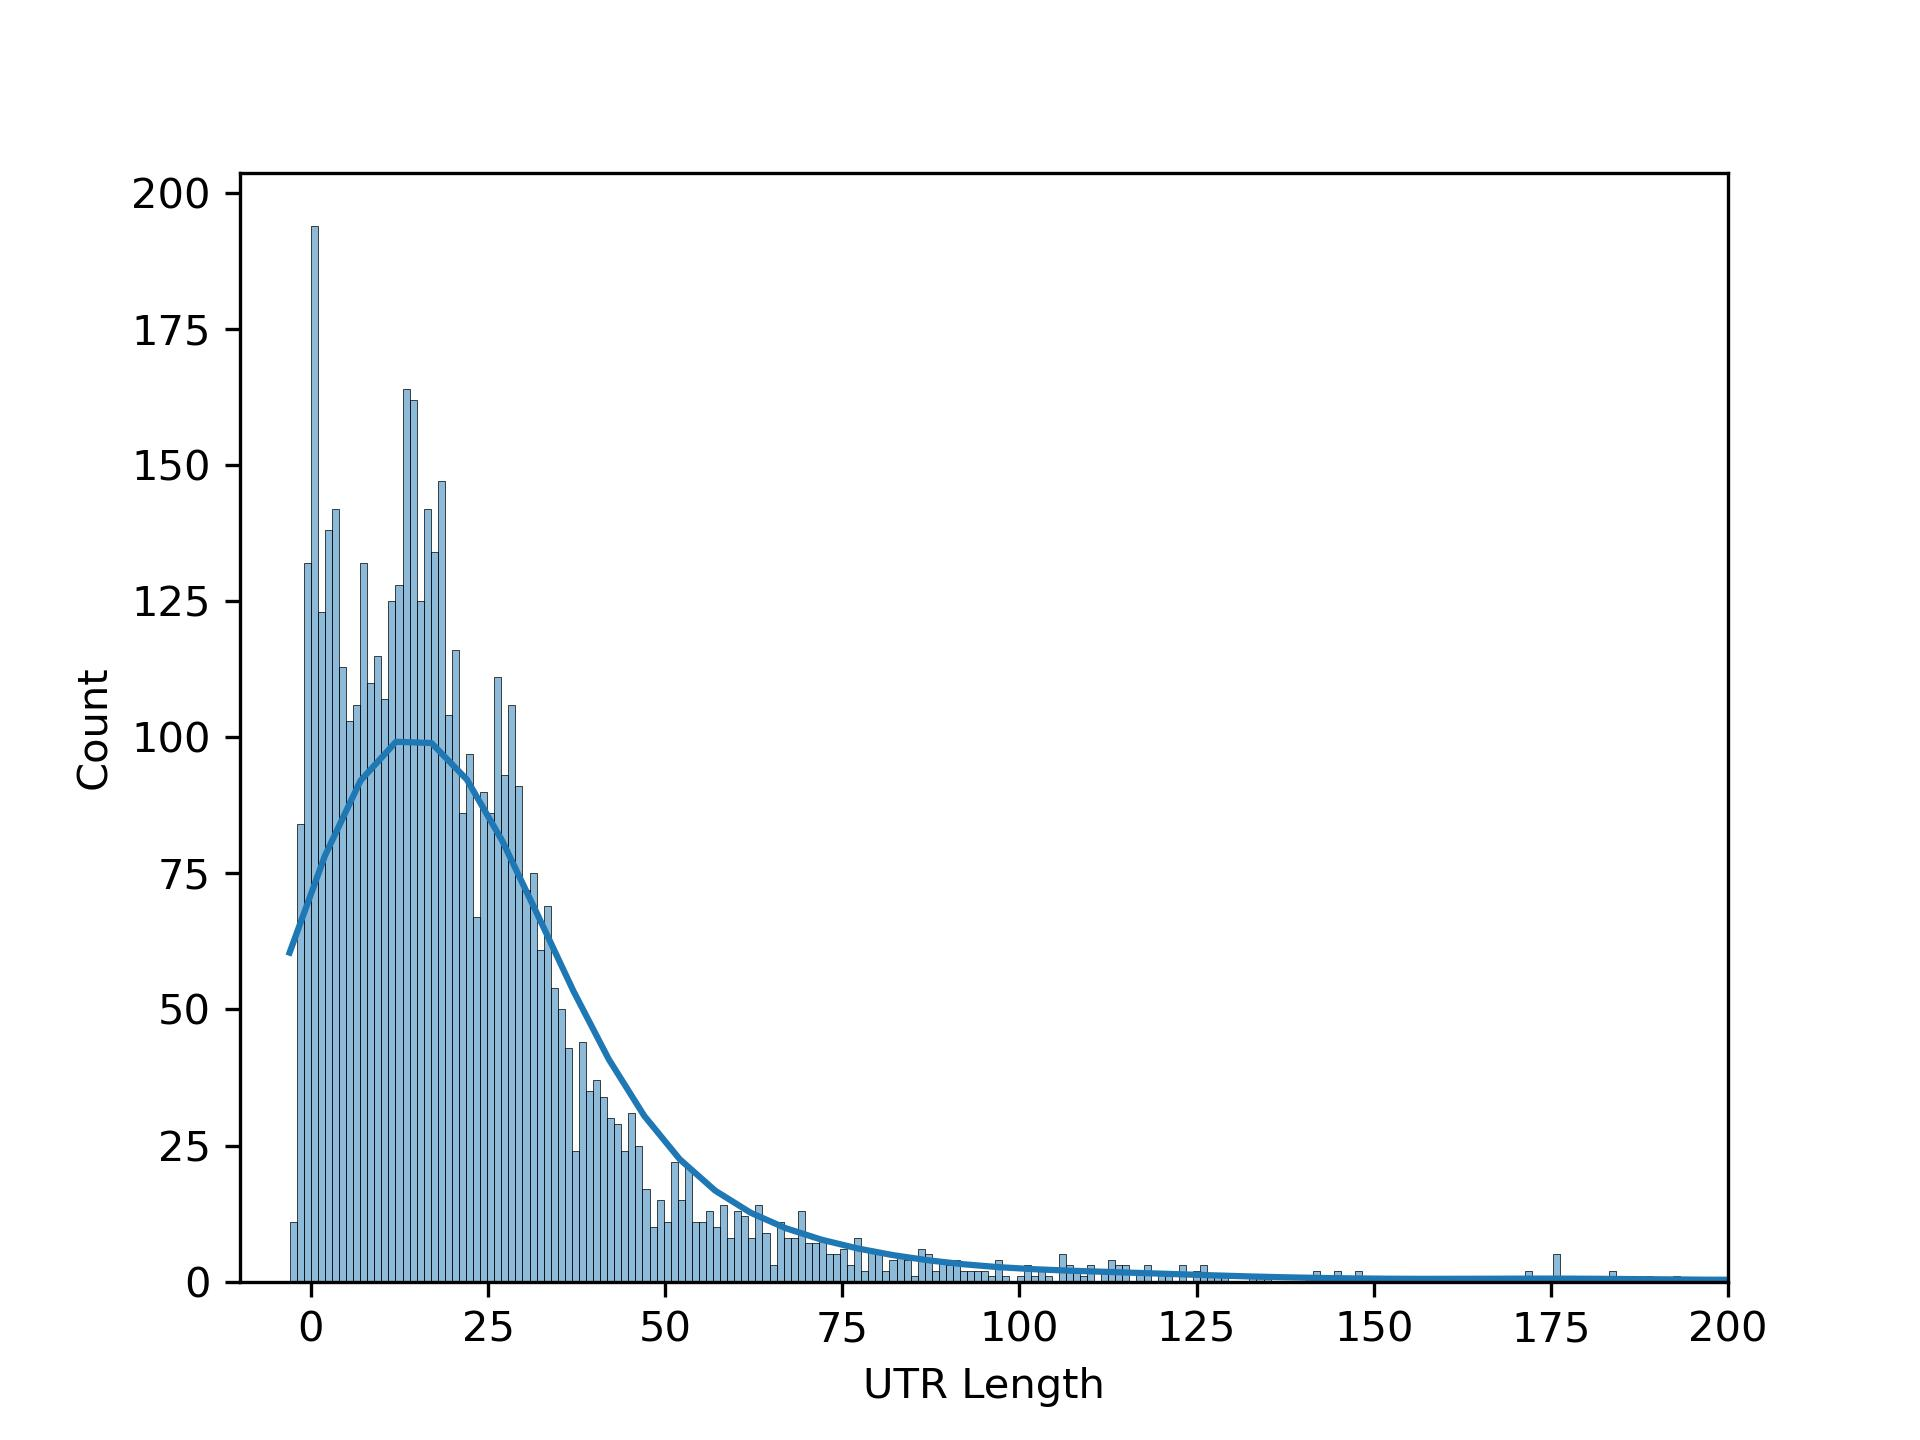
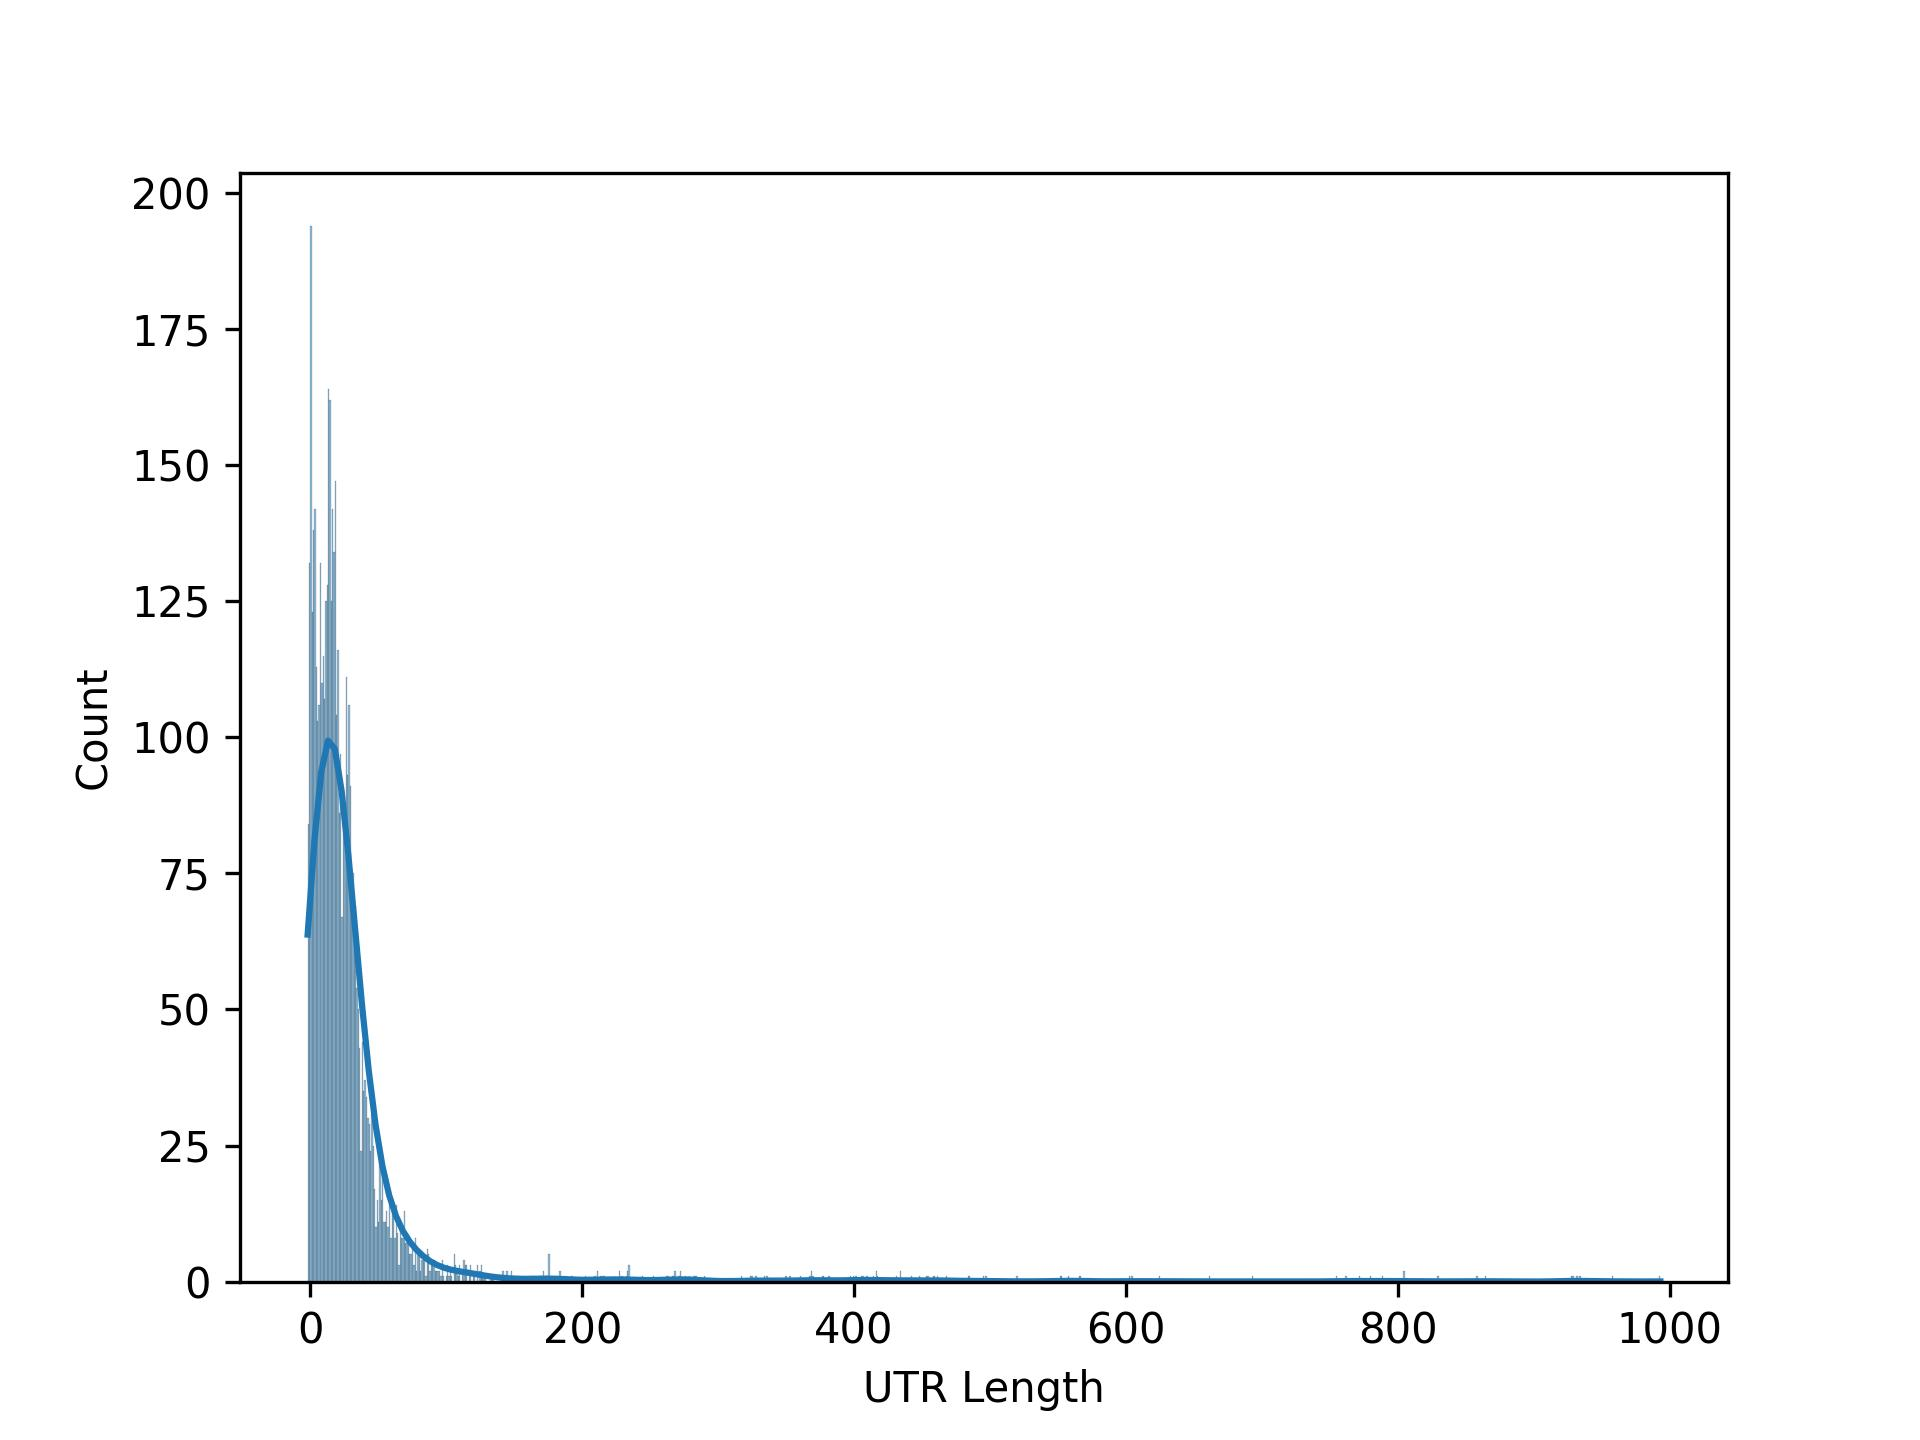
after UTR length finder revision

Changed region(s): [[0.125, 0.1562, 0.75, 1.0], [0.7812, 0.875, 0.9375, 0.9375]]

diff --git a/UTR_length_finder.py b/UTR_length_finder.py
@@ -1,10 +1,8 @@
 # $ python UTR_length_finder.py -g1 ST2_orfs.gff3 -g2 march4_has_stop_polyA.gff3 -f ST2_sorted_masked.fasta > UTR_length_info_new.txt
 
-# $ grep -c "there must be" UTR_length_info_new.txt
-# 52 
+# $ wc -l stop_polyA_align.gff3
+# 410 stop_polyA_align.gff3
 
-
-# $ python UTR_length_finder.py -g1 ST2_orfs.gff3 -g2 march4_has_stop_polyA.gff3 -f ST2_sorted_masked.fasta > UTR_length_info_new.txt
 #!/usr/bin/env python
 import sys
 import argparse
@@ -23,7 +21,7 @@ from Bio.SeqRecord import SeqRecord
 
 
 # Argument Parser
-parser = argparse.ArgumentParser(description="Categorize polyA sites into genomic contexts.")
+parser = argparse.ArgumentParser(description="Find UTR length of genes containing stop codon.")
 parser.add_argument("-g1", "--genes", required=True, help="Input GFF3 file with gene information.")
 parser.add_argument("-g2", "--polyA", required=True, help="Input GFF3 file with polyA sites which are associated with genes having stop codons.")
 parser.add_argument("-f", "--fasta", required=True, help="Input FASTA file containing genomic sequences.")
@@ -34,8 +32,8 @@ class Interval:
     """Class representing an interval between two genes."""
     def __init__(self, contig: str, gene_left: Optional[Feature], gene_right: Optional[Feature]):
         self.contig = contig
-        self.start = gene_left.end if gene_left else 0
-        self.end = gene_right.start if gene_right else sys.maxsize
+        self.start = gene_left.end+1 if gene_left else 0
+        self.end = gene_right.start-1 if gene_right else sys.maxsize
         self.gene_left = gene_left
         self.gene_right = gene_right
         self.strand_left = gene_left.strand if gene_left else None
@@ -49,13 +47,18 @@ def main() -> None:
     sequences = SeqIO.index(args.fasta, 'fasta')
 
     # Generate intervals
-    gene_intervals = process_gene_intervals(db_genes)
+    # Explicitly declare the types of the returned variables
+    gene_intervals: List[Interval] = process_gene_intervals(db_genes)
+    UTR_lengths_list: List[int] = find_UTR_lengths(gene_intervals, db_polyA, sequences)
 
-    UTR_lengths_list = find_UTR_lengths(gene_intervals, db_polyA, sequences)
 
-    df = pd.DataFrame(UTR_lengths_list, columns=["UTR Length"])
-    plt.xlim(-10, 200)  
-    sns.histplot(df, x="UTR Length", bins=1000, kde=True).get_figure().savefig("UTR_length_distribution.jpg", dpi=300)
+    UTR_lengths_series = pd.Series(UTR_lengths_list, name="UTR Length")
+    sns.histplot(
+        UTR_lengths_series,
+        bins=1000,
+        kde=True
+    ).get_figure().savefig("UTR_length_distribution.jpg", dpi=300)
+
       
 
 def process_gene_intervals(db: FeatureDB) -> List[Interval]:
@@ -74,6 +77,7 @@ def process_gene_intervals(db: FeatureDB) -> List[Interval]:
 
     # Process each contig individually
     for contig, genes in genes_by_contig.items():
+        
         # Sort genes by their start positions and in case of starting at the same point prioritise the ones with further ends
         genes.sort(key=lambda g: (g.start, -g.end))
 
@@ -84,6 +88,7 @@ def process_gene_intervals(db: FeatureDB) -> List[Interval]:
 
         # Iterate over the remaining genes
         for i in range(1, len(genes)):
+            
             # If next gene is overshadowed by correct_start (start < correct_start.end), skip it
             if genes[i].start < correct_start.end:
                 continue
@@ -98,17 +103,6 @@ def process_gene_intervals(db: FeatureDB) -> List[Interval]:
 
     return intervals
 
-
-def has_stop_codon(gene: Feature, sequences: Dict[str, SeqRecord]) -> bool:
-    """Check if a gene has a stop codon based on its strand."""
-    sequence = str(sequences[gene.seqid].seq[gene.start - 1: gene.end]).upper()
-    if gene.strand == "+":
-        return sequence[-3:] in ["TAA", "TGA", "TAG"]
-    if gene.strand == "-":
-        return sequence[:3] in ["TTA", "TCA", "CTA"]
-    return False
-
-
 def find_UTR_lengths(
     gene_intervals: List[Interval],
     db_polyA: FeatureDB,
@@ -117,32 +111,36 @@ def find_UTR_lengths(
     """
     Assign polyA sites to genes, categorize them, and return UTR lengths.
     Additionally, if the UTR length is in [-3, -2, -1, 0], write those polyA lines
-    to 'stop_polyA_align.gff3'.
+    to 'stop_polyA_align.gff3'. Also print a warning if the same gene is encountered
+    twice with a difference in UTR lengths > 50 bp.
     """
     UTR_lengths = []
     align_polyAs = []  # will collect lines for polyAs with UTR length in [-3, -2, -1, 0]
 
-    geneIdToCheck = None
-    UTRlengthToCheck = None
+    # These variables track the last gene and last UTR length we encountered
+    last_gene = None
+    last_utr_length = None
+    last_polyA_id = None
 
-    # Open output file in write mode here (or do so after the loop if you prefer)
     with open("stop_polyA_align.gff3", "w") as align_file:
-        for polyA in db_polyA.features_of_type('polyA'):
+        for polyA in db_polyA.features_of_type("polyA"):
             for interval in gene_intervals:
                 if polyA.seqid != interval.contig:
                     continue
 
-                # Check if polyA falls within an interval and the strands match
+                # Check if polyA falls within an interval (±3 bp) and if strand matches
                 if interval.start - 3 <= polyA.start <= interval.end + 3:
                     if polyA.strand == "-" and interval.strand_right == "-":
                         current_gene = interval.gene_right.id
-                        current_UTR_length = interval.end - polyA.start
-
+                        current_UTR_length = interval.end - polyA.start + 1
                     elif polyA.strand == "+" and interval.strand_left == "+":
                         current_gene = interval.gene_left.id
-                        current_UTR_length = polyA.start - interval.start
+                        current_UTR_length = polyA.start - interval.start + 1
+                    else:
+                        # If the strand doesn't match, skip
+                        continue
 
-                    # Record a normal UTR length if it's < 1000
+                    # Save the UTR length if it's < 1000
                     if current_UTR_length < 1000:
                         UTR_lengths.append(current_UTR_length)
                     else:
@@ -150,22 +148,24 @@ def find_UTR_lengths(
 
                     print(current_gene, polyA.id, current_UTR_length)
 
-                    # If the length is in [-3, -2, -1, 0], store the polyA line
+                    # If the length is in [-3, -2, -1, 0], record the line in stop_polyA_align.gff3 
+                    #(want to check what ratio of the has stop codon genes also have a polyA which is aligining on the stop codon)
                     if current_UTR_length in [-3, -2, -1, 0]:
-                        # Convert polyA feature object to string (like original GFF line)
-                        polyA_line = str(polyA)
-                        align_polyAs.append(polyA_line)
+                        align_polyAs.append(str(polyA))
 
-                    # Only do the comparison if both geneIdToCheck and UTRlengthToCheck are defined
-                    if geneIdToCheck is not None and UTRlengthToCheck is not None:
-                        # Check if we have the same gene, and if the difference is bigger than 50
-                        if geneIdToCheck == current_gene and abs(UTRlengthToCheck - current_UTR_length) > 50:
-                            print(f"WARNING: there might be a gene missing between {polyAtoCheck} and {polyA.id}")
+                    # Check if we are hitting the same gene again
+                    if last_gene == current_gene:
+                        # If so, see if the difference is > 50
+                        if abs(last_utr_length - current_UTR_length) > 50:
+                            print(f"WARNING: For gene {current_gene}, polyA {last_polyA_id} and {polyA.id} differ in UTR length by more than 50 bp. ")
 
-                    # Update these variables for the next comparison
-                    geneIdToCheck = current_gene
-                    UTRlengthToCheck = current_UTR_length
-                    polyAtoCheck = polyA.id
+                    # Update the tracking variables for the next iteration
+                    last_gene = current_gene
+                    last_utr_length = current_UTR_length
+                    last_polyA_id = polyA.id
+
+                    # Once assigned, we break out of the intervals loop
+                    break
 
         # After collecting them, write them all at once
         for line in align_polyAs:
@@ -174,9 +174,11 @@ def find_UTR_lengths(
     return UTR_lengths
 
 
-
 if __name__ == "__main__":
     main()
+
+
+
 
 # # $ python UTR_length_finder.py -g1 ST2_orfs.gff3 -g2 march4_has_stop_polyA.gff3 -f ST2_sorted_masked.fasta > UTR_length_info_new.txt
 
